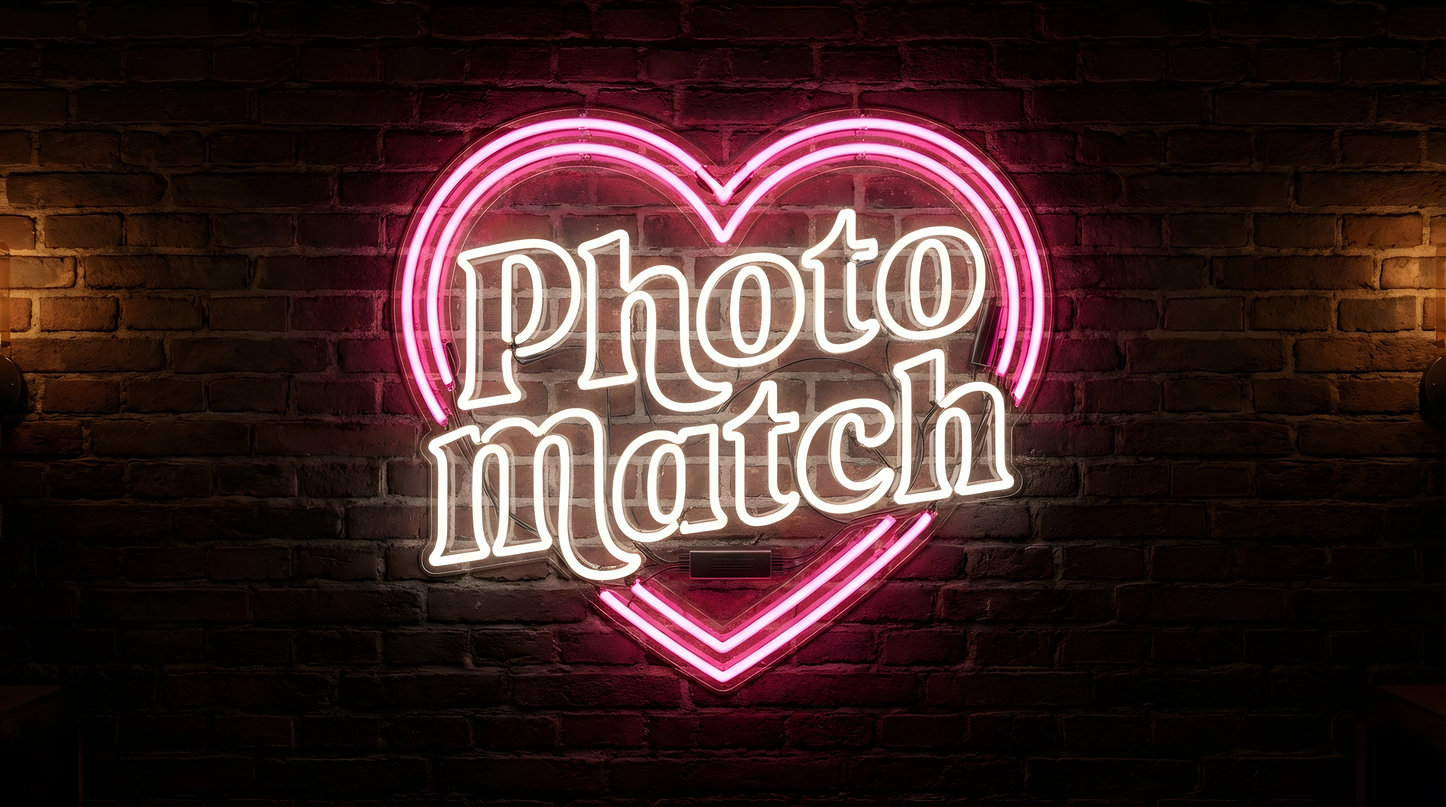
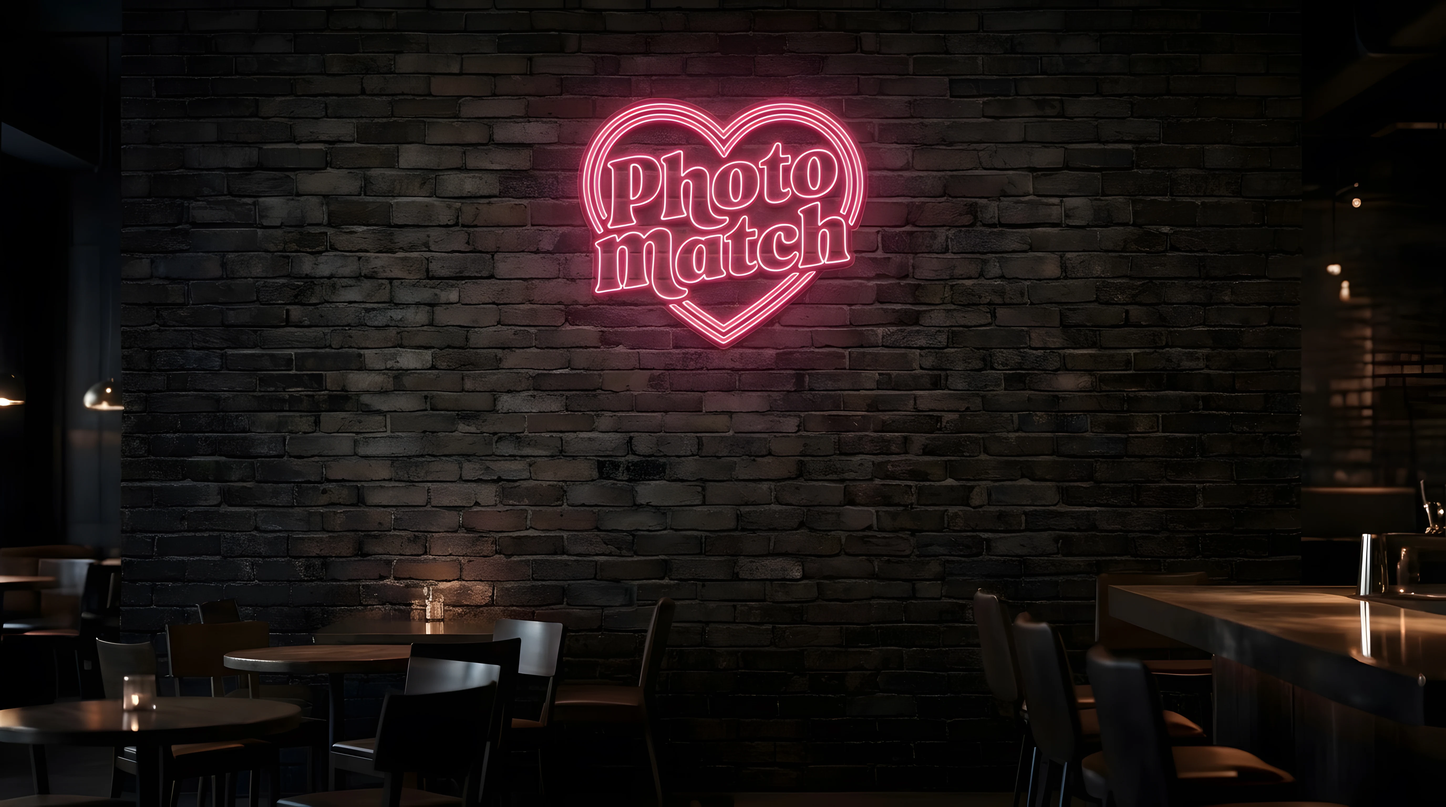
V10.4: regenerated neon sign smaller in frame (25%), 4x AI upscaled, object-fit cover top

diff --git a/src/components/Hero.tsx b/src/components/Hero.tsx
@@ -75,7 +75,7 @@ export default function Hero() {
           overflow: hidden;
         }
         .hero_background { position: absolute; inset: 0; }
-        .hero_background-image { object-fit: cover; object-position: center center; transform: scale(0.65); transform-origin: center 40%; }
+        .hero_background-image { object-fit: cover; object-position: center top; }
         .hero_vignette {
           position: absolute;
           inset: 0;
